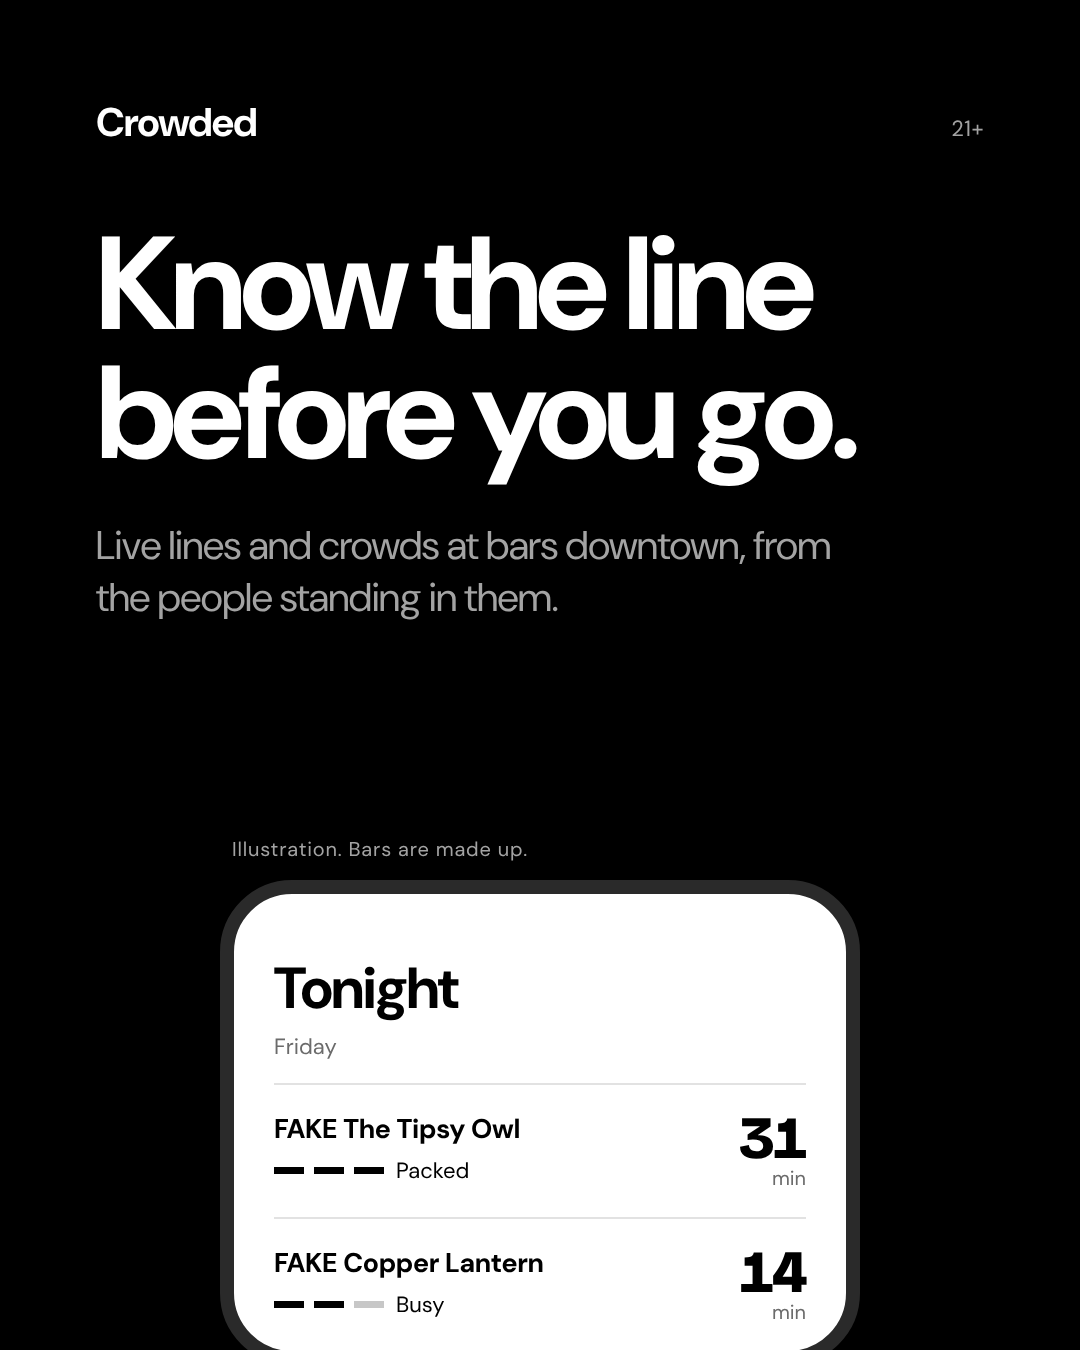
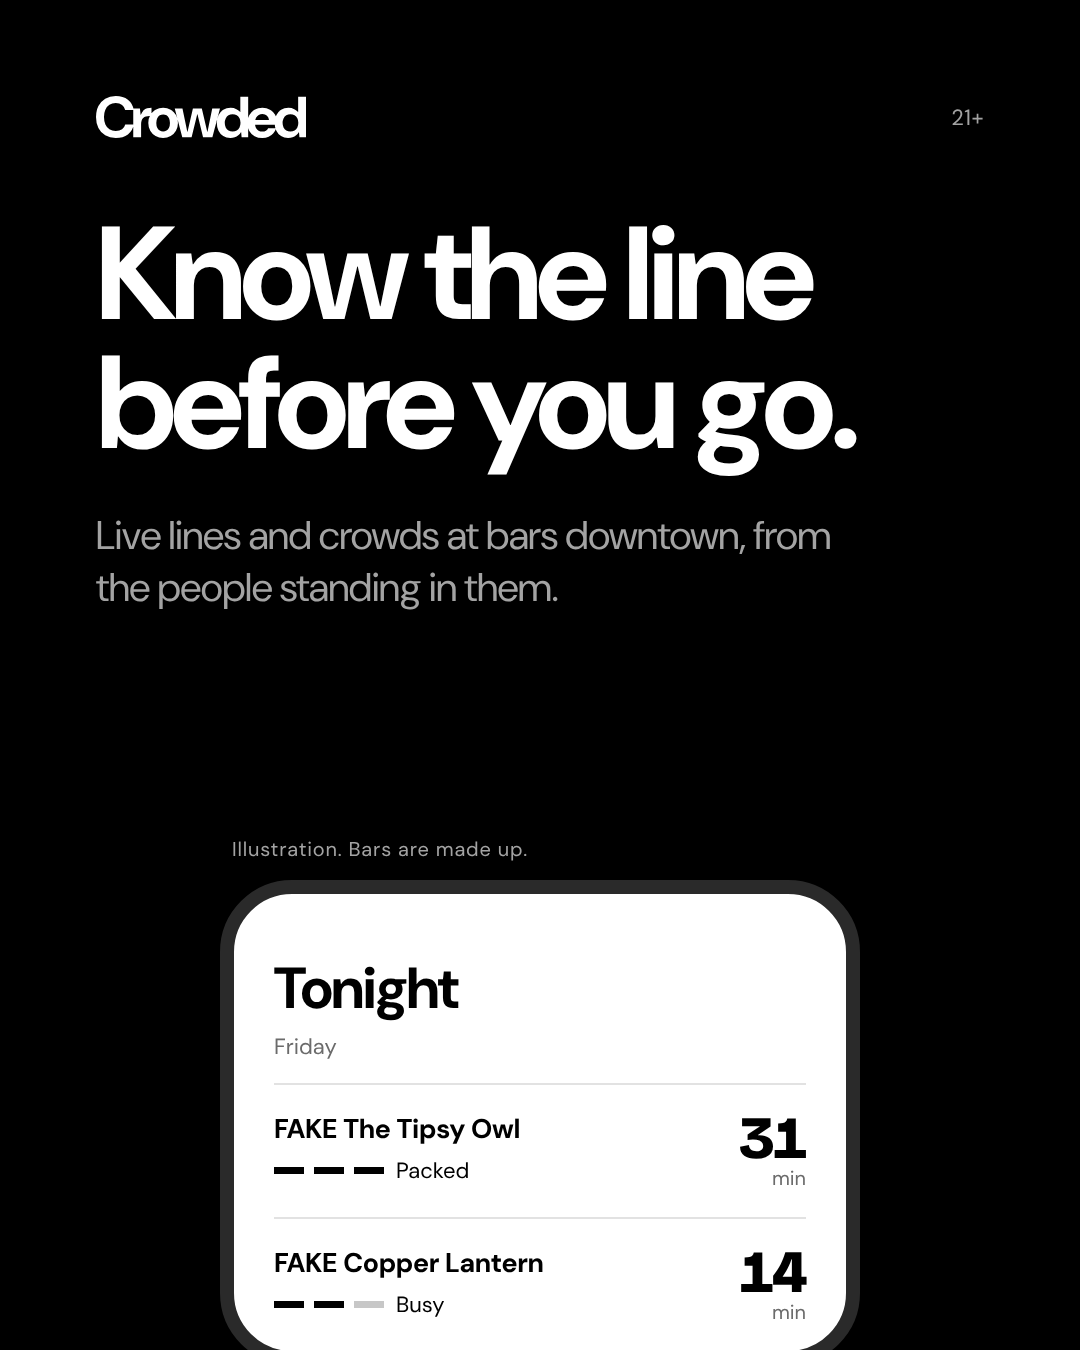
Instagram kit: Meter C profile and highlights, Packed wordmark on posts, stories and one pager
Claude-Session: https://claude.ai/code/session_01SbuuWf2ZB1HkurjV4Tqpyn

Changed region(s): [[0.0917, 0.1556, 0.7944, 0.4667], [0.0917, 0.0622, 0.3056, 0.1244], [0.8861, 0.0622, 0.9167, 0.0933]]

diff --git a/marketing/templates/kit.html b/marketing/templates/kit.html
@@ -12,17 +12,17 @@
   [Town] and [date] are placeholders to replace before rendering.
 -->
 
+<svg width="0" height="0" style="position:absolute" aria-hidden="true"><symbol id="mc-small" viewBox="0 0 1024 1024" fill="currentColor"><path d="M838.9 773.6A370 370 0 0 1 380 825L481.3 664.3A180 180 0 0 0 704.6 639.3Z"/><path d="M288.2 742.9A370 370 0 0 1 288.2 281.1L436.6 399.7A180 180 0 0 0 436.6 624.3Z"/><path d="M380 199A370 370 0 0 1 838.9 250.4L704.6 384.7A180 180 0 0 0 481.3 359.7Z"/></symbol></svg>
 <!-- ================= PROFILE ================= -->
 <div class="profile" data-out="instagram/profile-1080">
-  <div class="c">C</div>
-  <div class="meter"><i></i><i></i><i class="off"></i></div>
+  <img src="../brand/final/icon-dark.svg" alt="Crowded">
 </div>
 
 <!-- ================= GRID (3 x 2, alternating black and white) ================= -->
 
 <!-- 1 -->
 <section class="frame post dark" data-out="instagram/post-1-know-the-line">
-  <div class="top"><span class="mark">Crowded</span><span class="tiny muted">21+</span></div>
+  <div class="top"><img class="wm" style="height:42px" src="../brand/final/wordmark-white.svg" alt="Crowded"><span class="tiny muted">21+</span></div>
   <h1 class="h-xl" style="margin-top:72px">Know the line before you go.</h1>
   <p class="lede muted" style="margin-top:40px;max-width:760px">Live lines and crowds at bars downtown, from the people standing in them.</p>
   <div class="grow"></div>
@@ -45,7 +45,7 @@
 
 <!-- 2 -->
 <section class="frame post light" data-out="instagram/post-2-how-it-works">
-  <div class="top"><span class="caps">How it works</span><span class="mark">Crowded</span></div>
+  <div class="top"><span class="caps">How it works</span><img class="wm" style="height:42px" src="../brand/final/wordmark.svg" alt="Crowded"></div>
   <h1 class="h-lg" style="margin-top:72px">People in line keep it live.</h1>
   <div class="grow"></div>
   <div class="steps">
@@ -57,7 +57,7 @@
 
 <!-- 3 -->
 <section class="frame post dark" data-out="instagram/post-3-every-number">
-  <div class="top"><span class="mark">Crowded</span></div>
+  <div class="top"><img class="wm" style="height:42px" src="../brand/final/wordmark-white.svg" alt="Crowded"></div>
   <h1 class="h-lg" style="margin-top:72px">Every number shows its source.</h1>
   <div class="grow"></div>
   <div class="est stack gap-16">
@@ -73,7 +73,7 @@
 
 <!-- 4 -->
 <section class="frame post light" data-out="instagram/post-4-two-taps">
-  <div class="top"><span class="mark">Crowded</span><span class="tiny muted">About 10 seconds</span></div>
+  <div class="top"><img class="wm" style="height:42px" src="../brand/final/wordmark.svg" alt="Crowded"><span class="tiny muted">About 10 seconds</span></div>
   <h1 class="h-xl" style="margin-top:72px">Two taps.<br>Report sent.</h1>
   <div class="grow"></div>
   <div class="stack gap-24">
@@ -88,7 +88,7 @@
 
 <!-- 5 -->
 <section class="frame post dark" data-out="instagram/post-5-privacy">
-  <div class="top"><span class="caps">Privacy</span><span class="mark">Crowded</span></div>
+  <div class="top"><span class="caps">Privacy</span><img class="wm" style="height:42px" src="../brand/final/wordmark-white.svg" alt="Crowded"></div>
   <h1 class="h-lg" style="margin-top:72px">We never store where you go.</h1>
   <div class="grow"></div>
   <div class="steps">
@@ -99,7 +99,7 @@
 
 <!-- 6a -->
 <section class="frame post light" data-out="instagram/post-6a-coming-soon">
-  <div class="top"><span class="mark">Crowded</span><span class="tiny muted">21+</span></div>
+  <div class="top"><img class="wm" style="height:42px" src="../brand/final/wordmark.svg" alt="Crowded"><span class="tiny muted">21+</span></div>
   <div class="grow"></div>
   <h1 class="h-xl">Coming soon to [Town].</h1>
   <div class="meter" style="margin-top:64px"><i></i><i></i><i class="off"></i></div>
@@ -108,7 +108,7 @@
 
 <!-- 6b -->
 <section class="frame post light" data-out="instagram/post-6b-now-in-beta">
-  <div class="top"><span class="mark">Crowded</span><span class="tiny muted">21+</span></div>
+  <div class="top"><img class="wm" style="height:42px" src="../brand/final/wordmark.svg" alt="Crowded"><span class="tiny muted">21+</span></div>
   <div class="grow"></div>
   <h1 class="h-xl">Now in beta.</h1>
   <div class="meter" style="margin-top:64px"><i></i><i></i><i></i></div>
@@ -117,7 +117,7 @@
 
 <!-- ================= CAROUSEL: the line timer ================= -->
 <section class="frame post dark" data-out="instagram/carousel-1-in-line">
-  <div class="top"><span class="caps muted">1 of 3</span><span class="mark">Crowded</span></div>
+  <div class="top"><span class="caps muted">1 of 3</span><img class="wm" style="height:42px" src="../brand/final/wordmark-white.svg" alt="Crowded"></div>
   <h1 class="h-lg" style="margin-top:72px">Just got in line?</h1>
   <p class="lede muted" style="margin-top:32px">Tap one button.</p>
   <div class="grow"></div>
@@ -126,7 +126,7 @@
 </section>
 
 <section class="frame post light" data-out="instagram/carousel-2-inside">
-  <div class="top"><span class="caps muted">2 of 3</span><span class="mark">Crowded</span></div>
+  <div class="top"><span class="caps muted">2 of 3</span><img class="wm" style="height:42px" src="../brand/final/wordmark.svg" alt="Crowded"></div>
   <div class="grow"></div>
   <div class="ring">
     <svg viewBox="0 0 620 620" aria-hidden="true">
@@ -142,7 +142,7 @@
 </section>
 
 <section class="frame post dark" data-out="instagram/carousel-3-better">
-  <div class="top"><span class="caps muted">3 of 3</span><span class="mark">Crowded</span></div>
+  <div class="top"><span class="caps muted">3 of 3</span><img class="wm" style="height:42px" src="../brand/final/wordmark-white.svg" alt="Crowded"></div>
   <h1 class="h-lg" style="margin-top:72px">Your real wait fixes the next estimate.</h1>
   <div class="grow"></div>
   <p class="lede muted">Timers are the most accurate signal we have. Every one makes tonight's number better for the next person in line.</p>
@@ -151,7 +151,7 @@
 
 <!-- ================= STORIES (safe zone: 250 px top, 340 px bottom) ================= -->
 <section class="frame story dark" data-out="instagram/story-1-launch">
-  <div class="top"><span class="mark">Crowded</span><span class="tiny muted">21+ only</span></div>
+  <div class="top"><img class="wm" style="height:42px" src="../brand/final/wordmark-white.svg" alt="Crowded"><span class="tiny muted">21+ only</span></div>
   <h1 class="h-xl" style="margin-top:96px">Know the line before you go.</h1>
   <p class="lede muted" style="margin-top:48px">Live bar lines and crowds, from people in line right now.</p>
   <span class="illus muted" style="left:232px;top:1046px">Illustration. Bars are made up.</span>
@@ -184,11 +184,11 @@
   <h1 class="h-xl" style="margin-top:96px">Which bar has the worst line on Fridays?</h1>
   <div class="grow"></div>
   <!-- empty space for the Instagram poll sticker -->
-  <p class="small muted">Crowded</p>
+  <img class="wm" style="height:34px;opacity:.65" src="../brand/final/wordmark.svg" alt="Crowded">
 </section>
 
 <section class="frame story dark" data-out="instagram/story-3-countdown">
-  <span class="mark">Crowded</span>
+  <img class="wm" style="height:42px" src="../brand/final/wordmark-white.svg" alt="Crowded">
   <h1 class="h-xl" style="margin-top:96px">Beta drops [date].</h1>
   <p class="lede muted" style="margin-top:48px">Free on iPhone. 21+.</p>
   <div class="grow"></div>
@@ -196,7 +196,7 @@
 </section>
 
 <section class="frame story light" data-out="instagram/story-4-tap-the-link">
-  <span class="mark">Crowded</span>
+  <img class="wm" style="height:42px" src="../brand/final/wordmark.svg" alt="Crowded">
   <h1 class="h-xl" style="margin-top:96px">Tap the link.<br>Skip the guessing.</h1>
   <p class="lede muted" style="margin-top:48px">Join the beta on iPhone.</p>
   <div class="grow"></div>
@@ -207,23 +207,27 @@
 
 <!-- ================= HIGHLIGHT COVERS ================= -->
 <div class="hl" data-out="instagram/highlight-how-it-works">
+  <svg class="hlmark" viewBox="0 0 1024 1024" aria-hidden="true"><use href="#mc-small"/></svg>
   <svg viewBox="0 0 100 100" fill="none" stroke="#fff" stroke-width="5" stroke-linecap="square" aria-hidden="true">
     <path d="M20 26 H80 M20 50 H80 M20 74 H56"/>
   </svg>
 </div>
 <div class="hl" data-out="instagram/highlight-privacy">
+  <svg class="hlmark" viewBox="0 0 1024 1024" aria-hidden="true"><use href="#mc-small"/></svg>
   <svg viewBox="0 0 100 100" fill="none" stroke="#fff" stroke-width="5" stroke-linecap="square" aria-hidden="true">
     <rect x="24" y="46" width="52" height="38"/>
     <path d="M34 46 V34 a16 16 0 0 1 32 0 V46"/>
   </svg>
 </div>
 <div class="hl" data-out="instagram/highlight-bars">
+  <svg class="hlmark" viewBox="0 0 1024 1024" aria-hidden="true"><use href="#mc-small"/></svg>
   <svg viewBox="0 0 100 100" fill="none" stroke="#fff" stroke-width="5" stroke-linecap="square" aria-hidden="true">
     <path d="M30 86 V14 H70 V86 M18 86 H82"/>
     <path d="M60 52 V54"/>
   </svg>
 </div>
 <div class="hl" data-out="instagram/highlight-beta">
+  <svg class="hlmark" viewBox="0 0 1024 1024" aria-hidden="true"><use href="#mc-small"/></svg>
   <svg viewBox="0 0 100 100" fill="none" stroke="#fff" stroke-width="5" stroke-linecap="square" aria-hidden="true">
     <rect x="30" y="10" width="40" height="80"/>
     <path d="M50 30 V60 M38 48 L50 60 L62 48 M42 76 H58"/>
@@ -232,7 +236,7 @@
 
 <!-- ================= FOR BARS ONE PAGER (US letter, rendered at 3x = 2550 x 3300) ================= -->
 <section class="frame letter light" data-out="for-bars-one-pager" data-scale="3">
-  <div class="top"><span class="mark" style="font-size:26px">Crowded</span><span class="tiny muted" style="font-size:13px">For bars</span></div>
+  <div class="top"><img class="wm" style="height:30px" src="../brand/final/wordmark.svg" alt="Crowded"><span class="tiny muted" style="font-size:13px">For bars</span></div>
   <h1 class="h-op" style="margin-top:48px">Know your night.<br>Let students know your line.</h1>
   <p class="lede-op muted" style="margin-top:20px;max-width:600px">Crowded shows college students the live line and crowd at bars downtown. We are starting a small pilot this season. Door staff use their own phone. No new hardware.</p>
   <div class="cols" style="margin-top:44px">

diff --git a/marketing/templates/kit.css b/marketing/templates/kit.css
@@ -56,7 +56,8 @@ body { background: #888; font-family: var(--body); -webkit-font-smoothing: antia
 .num { font-family: var(--num); font-weight: 800; letter-spacing: -0.04em; font-variant-numeric: tabular-nums; }
 
 /* ---------- layout helpers ---------- */
-.top { display: flex; justify-content: space-between; align-items: baseline; }
+.top { display: flex; justify-content: space-between; align-items: center; }
+.wm { display: block; width: auto; align-self: flex-start; }
 .grow { flex: 1; }
 .stack { display: flex; flex-direction: column; }
 .gap-16 { gap: 16px; } .gap-24 { gap: 24px; } .gap-40 { gap: 40px; } .gap-64 { gap: 64px; }
@@ -124,14 +125,15 @@ body { background: #888; font-family: var(--body); -webkit-font-smoothing: antia
 .illus { position: absolute; font-size: 20px; letter-spacing: 0.04em; }
 
 /* ---------- highlights ---------- */
-.hl { width: 1080px; height: 1920px; background: var(--black); color: var(--white); display: flex; align-items: center; justify-content: center; margin: 40px; }
+.hl { width: 1080px; height: 1920px; background: var(--black); color: var(--white); display: flex; flex-direction: column; align-items: center; justify-content: center; gap: 96px; margin: 40px; }
 .hl svg { width: 420px; height: 420px; }
+.hl svg.hlmark { width: 240px; height: 240px; }
 
 /* ---------- profile ---------- */
-.profile { width: 1080px; height: 1080px; background: var(--black); color: var(--white); display: flex; flex-direction: column; align-items: center; justify-content: center; gap: 56px; margin: 40px; }
-.profile .c { font-weight: 700; font-size: 560px; line-height: 0.8; letter-spacing: 0; margin-top: -40px; transform: translateX(-17px); }
-.profile .meter i { width: 120px; height: 26px; }
-.profile .meter { gap: 22px; }
+/* Meter C, white on ink. The mark is about 64 percent of the frame, inside the center 70 percent
+   that survives a circle crop. */
+.profile { width: 1080px; height: 1080px; background: var(--black); margin: 40px; }
+.profile img { display: block; width: 100%; height: 100%; }
 
 /* ---------- one pager ---------- */
 .letter .h-op { font-weight: 700; font-size: 58px; line-height: 1.02; letter-spacing: -0.035em; }

diff --git a/marketing/render.js b/marketing/render.js
@@ -16,6 +16,7 @@ const { chromium } = require("playwright");
     });
     await page.goto("file://" + path.join(root, "templates", "kit.html"));
     await page.evaluate(() => document.fonts.ready);
+    await page.waitForFunction(() => [...document.images].every((i) => i.complete));
     const items = await page.$$eval("[data-out]", (els) =>
       els.map((e, i) => ({ i, out: e.dataset.out, scale: Number(e.dataset.scale || 1) }))
     );
